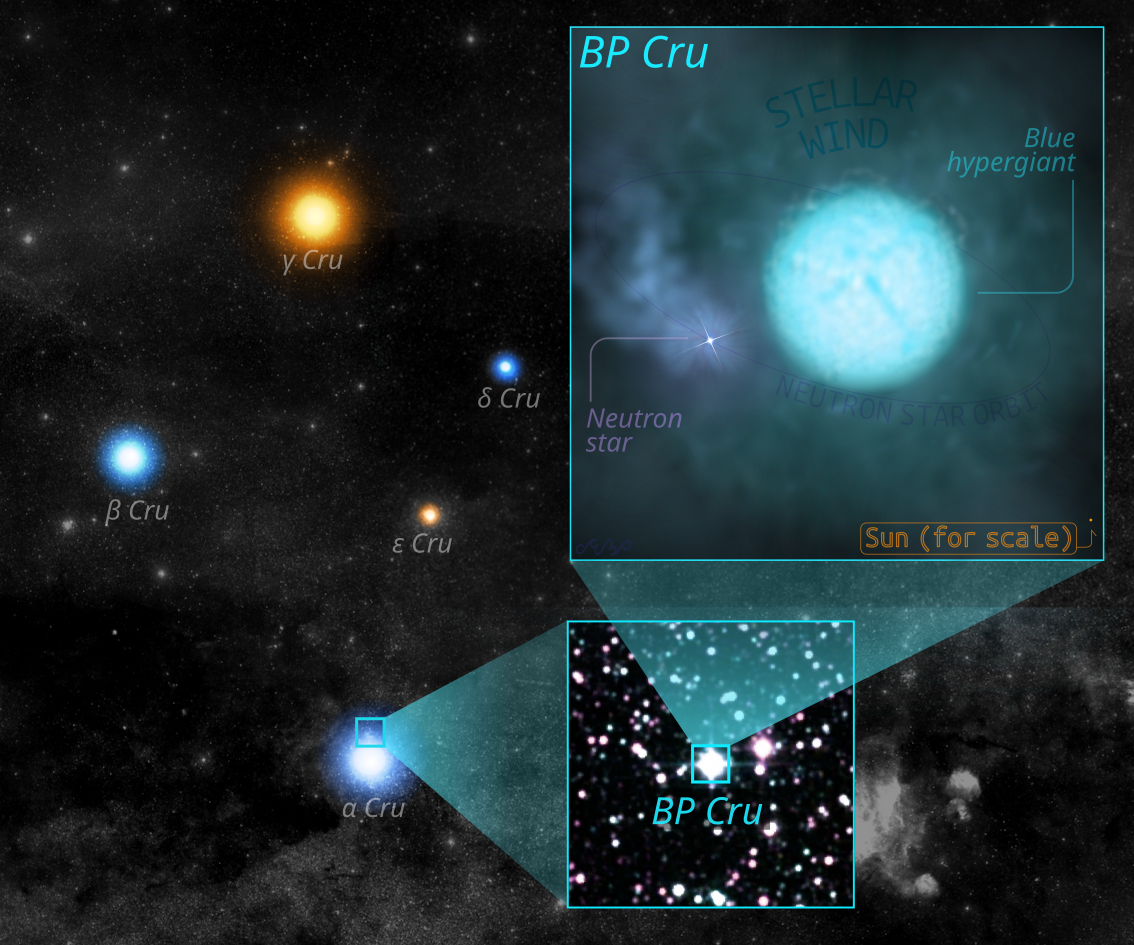
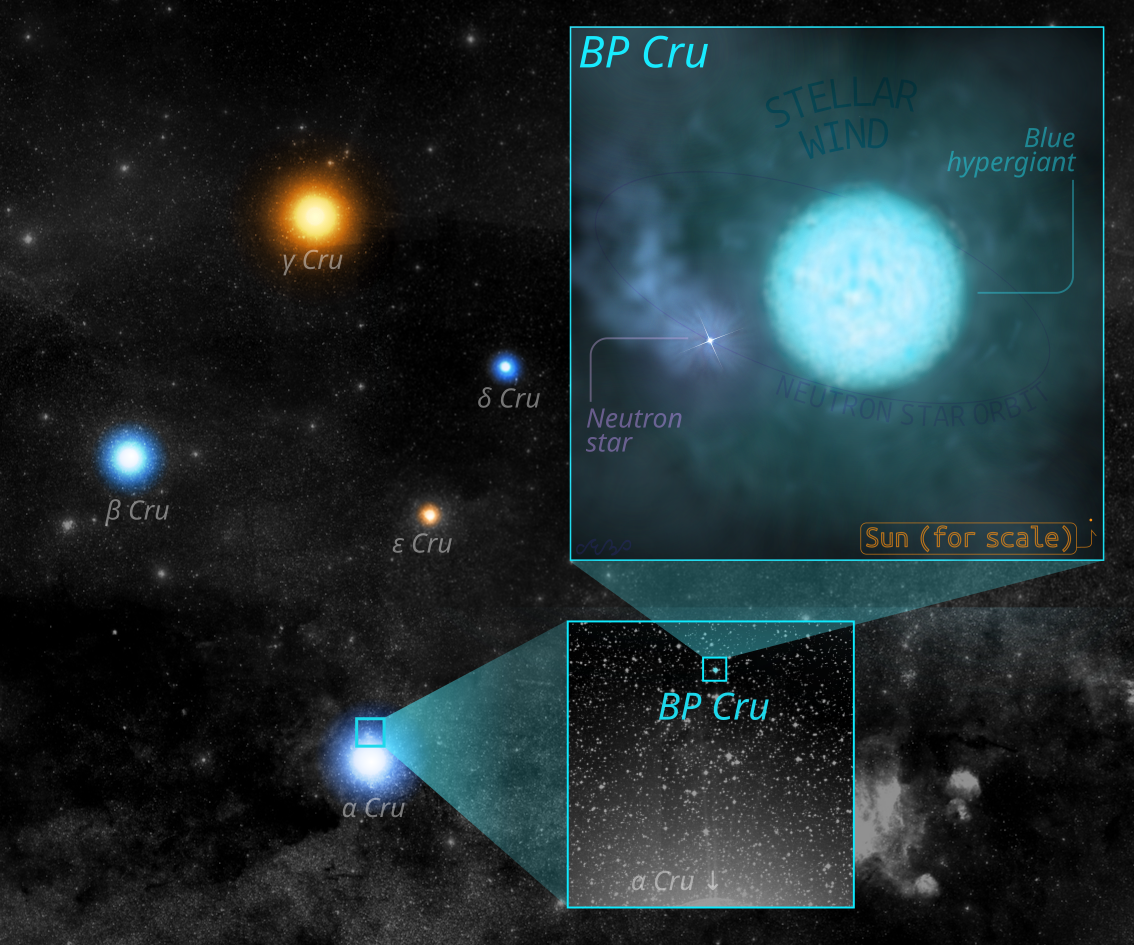
Testing first post

diff --git a/__site/subpages/blog/20260118-bpcru/index.html b/__site/subpages/blog/20260118-bpcru/index.html
@@ -14,7 +14,7 @@
 <link rel="shortcut icon" href="/assets/favicon.svg">
 <link rel="apple-touch-icon-precomposed" sizes="152x152" href="/assets/apple-touch-icon.png">
 
-   <title>BP Cru</title>  
+   <title>BP Cru, intersection of extremes</title>  
 </head>
 <body>
   <header>
@@ -33,6 +33,28 @@
 
 <!-- Content appended here -->
 <div class="franklin-content">
+<h1 id="bp_cru_the_intersection_of_extremes_18102026"><a href="#bp_cru_the_intersection_of_extremes_18102026" class="header-anchor">BP Cru, the intersection of extremes | 18.10.2026</a></h1>
+<p>Tonight, at 5:25:19 UTC of the 19th of January, the <a href="https://science.nasa.gov/mission/hubble/">Hubble Space Telescope &#40;HST&#41;</a> will be staring at the Southern Cross &#40;Crux, or Cruzeiro do Sul em português&#41;. For the first time, a very special star will be observed&#33; Its most famous name is <a href="https://simbad.cds.unistra.fr/simbad/sim-basic?Ident&#61;BP&#43;Cru&amp;submit&#61;SIMBAD&#43;search"><em>BP Cru</em></a>. In our line of sight, BP Cru lies close to <a href="https://en.wikipedia.org/wiki/Acrux">α Cru</a>, the brightest star in the constellation.</p>
+<blockquote>
+<p>The name &quot;BP Cru&quot; corresponds to the star&#39;s designation at the <a href="https://en.wikipedia.org/wiki/General_Catalogue_of_Variable_Stars">General Catalog of Variable Stars</a>.</p>
+</blockquote>
+<p>BP Cru is actually two stars engaged in a very macabre dance. One of them is a cool blue hypergiant, an aged behemoth seventy times larger and forty times more massive than our Sun. The other is a tiny, tiny neutron star – the remnant of an even heavier behemoth that died long ago.   This dead star, whose internal structure defies and haunts our astrophysical understanding, is no larger than 20 km, yet it has a mass two or three times that of the Sun – pause for a moment and contemplate that&#33;   We have here a giant monster dancing a fifty-day-long dance with a zombie. And it is a dance that is anything but boring.</p>
+<blockquote>
+<p>We say a star is alive if it still fuses atoms into other atoms in its core to produce energy, preventing it from collapsing under its own weight. &quot;Dead stars&quot; like neutron stars are not made of normal atoms and sustain themselves through physical processes wilder than science fiction.</p>
+</blockquote>
+<div class="row"><div class="container"><div class="center"><img src="/assets/blog-figures/bpcru.png" alt="" /></div></div>
+<p><em>Artistic impression and collage of BP Cru. Both the location as well as the binary system configuration are shown. The neutron star, represented as the white shiny speckle, orbits around the blue hypergiant. As it moves inside the dense wind of the blue star, it emits copious amounts of X-rays. For scale the sun is represented with an orange dot. The image of Crux is the photometry collected by <a href="https://en.wikipedia.org/wiki/Digitized_Sky_Survey">DSS2</a> and modified in Inkscape. This work was crafter in <a href="https://inkscape.org/">Inkscape</a>. This artistic impression has made use of <a href="https://sky.esa.int/esasky">ESASKY</a>, developed by the ESAC Science Data Centre &#40;ESDC&#41; team and maintained alongside other ESA science mission&#39;s archives at ESA&#39;s European Space Astronomy Centre &#40;ESAC, Madrid, Spain&#41;. This work is licensed under <a href="https://creativecommons.org/licenses/by-nc/4.0">CC BY-NC 4.0</a>.</em></p>
+
+<div style="black: both"></div></div>
+<p>Massive stars live fast and die quickly – at least in astronomical terms, lasting only a few million years. However, their brightness, winds, and violent deaths as supernovae change the course of entire galaxies and forge most of the atoms that make up you and me. Therefore, understanding how these stars live and die is fundamental to understanding where we came from and why the night sky looks the way it does. Most high-mass stars, alive or dead, dance or have danced with another star. Often, such dances between a dead and an alive massive star produce X-rays, producing what we call High-Mass X-ray Binaries.</p>
+<blockquote>
+<p>The term &quot;High Mass X-ray Binary&quot; refers to any system made of a dead massive star, like a black hole or a neutron star, and a massive star orbiting each other and emitting X-rays because of their interaction  – yes, the same radiation used to image our bones&#33;</p>
+</blockquote>
+<p>BP Cru is the only known system where this exact type of behemoth – a cool blue hypergiant – is leading its dead companion in such a dance. The hypergiant is so large and bright that it launches its surface layers into space as a stellar wind. As the neutron star orbits through this wind, it violently pulls the surrounding gas toward itself. The friction of the infalling gas produces copious amounts of X-rays.</p>
+<p>With its uniqueness, BP Cru may be the only observable example of a very brief snapshot in the life of certain high-mass stellar systems. How did such a system come to be? Why don’t we see more systems like it? How long can this system survive? What impacts will it have when it dies? We don’t know yet, but learning more about the past, present, and future of these dancing monsters will reveal exciting things about massive stars, and eventually about the Universe as a whole&#33;</p>
+<p><em>Abraços, MBP</em></p>
+<div class="colbox-blue">PS: Some personal coincidences about this are remarkable&#33; BP is the acronym of my surname, and Cruzeiro do Sul, was the first constellation I identified in the night sky when I was a child&#33; Also, the observations were originally scheduled for 2027, but last week the first of them were rescheduled for tonight&#33; It is a true existential pleasure to be traveling to the place where I grew up &#40;Rio de Janeiro&#41;, gazing at the Southern Cross while the HST collects data for <a href="https://www.stsci.edu/hst-program-info/program/?program&#61;18129">my very first successful first-author observational proposal</a>&#33; Fingers crossed for clear skies in Rio and a smooth observation by HST&#33;</div>
+<h3 id="references"><a href="#references" class="header-anchor">References      </a></h3>
 <div class="page-foot">
     <a href="http://creativecommons.org/licenses/by-sa/4.0/">CC BY-SA 4.0</a> Matheus Bernini Peron. Last modified: January 17, 2026.
     Website built with <a href="https://github.com/tlienart/Franklin.jl">Franklin.jl</a> and the <a href="https://julialang.org">Julia programming language</a>.

diff --git a/__site/subpages/blog/index.html b/__site/subpages/blog/index.html
@@ -35,12 +35,12 @@
 <div class="franklin-content">
 <p>Here you find posts with a semi-regular frequency &#40;lets see how consistent I keep it, wish me luck&#33;&#41; about different things. Usually things related to science, art, hobbies and averything in between.</p>
 <ul>
-<li><p><a href="/subpages/blog/20260118-bpcru">BP Cru, the intersaction of extremes</a></p>
+<li><p><a href="/subpages/blog/20260118-bpcru">BP Cru, the intersection of extremes</a></p>
 </li>
 </ul>
 <p><img src="/assets/contruction-sign-joke.png" alt="construction sign joke"> </p>
 <div class="page-foot">
-    <a href="http://creativecommons.org/licenses/by-sa/4.0/">CC BY-SA 4.0</a> Matheus Bernini Peron. Last modified: January 16, 2026.
+    <a href="http://creativecommons.org/licenses/by-sa/4.0/">CC BY-SA 4.0</a> Matheus Bernini Peron. Last modified: January 17, 2026.
     Website built with <a href="https://github.com/tlienart/Franklin.jl">Franklin.jl</a> and the <a href="https://julialang.org">Julia programming language</a>.
 </div>
 </div><!-- CONTENT ENDS HERE -->

diff --git a/subpages/blog/20260118-bpcru.md b/subpages/blog/20260118-bpcru.md
@@ -1,13 +1,33 @@
 +++
-title = "BP Cru"
+title = "BP Cru, intersection of extremes"
+author = "Matheus Bernini Peron"
+date = "2026-01-18"
+
+# FLATTENED structure - no nested [sections]
+artwork_name = "Crux and BP Cru"
+artwork_artist = "Matheus Bernini Peron"
+artwork_year = "2026"
+artwork_medium = "Digital collage using astronomical reference data"
+artwork_license = "CC BY-NC 4.0"
+artwork_repo = "https://github.com/matheus-bp/matheus-bp.github.io"
+
+credit_original_text = "Original artistic work"
+credit_original_copyright = "© Matheus Bernini Peron"
+credit_original_license_url = "https://creativecommons.org/licenses/by-nc/4.0/"
+
+credit_data_esa = "ESA Sky web portal (European Space Agency)"
+credit_data_dss2 = "Digitized Sky Survey 2, Space Telescope Science Institute"
+credit_data_observations = "Palomar Observatory/UK Schmidt Telescope"
+
+legal_status = "Transformative artistic work for non-commercial educational purposes"
+legal_basis = "Created under fair use/fair dealing principles"
+legal_note = "The astronomical data remains © respective rights holders"
 +++
-<!-- 
-\newcommand{\col}[2]{~~~<span style="color:~~~#1~~~">~~~!#2~~~</span>~~~}
 
-# BP Cru, the intersaction of extremes | 18.10.2026
+# BP Cru, the intersection of extremes | 18.10.2026
 
 
-Tonight, at 5:25:19 UTC, the Hubble Space Telescope (HST) will be staring at the Southern Cross (Crux, or Cruzeiro do Sul em português). For the first time, a very special star will be observed! Its most famous name is BP Cru. In our line of sight, BP Cru lies close to α Cru, the brightest star in the constellation.
+Tonight, at 5:25:19 UTC of the 19th of January, the [Hubble Space Telescope (HST)](https://science.nasa.gov/mission/hubble/) will be staring at the Southern Cross (Crux, or Cruzeiro do Sul em português). For the first time, a very special star will be observed! Its most famous name is [*BP Cru*](https://simbad.cds.unistra.fr/simbad/sim-basic?Ident=BP+Cru&submit=SIMBAD+search). In our line of sight, BP Cru lies close to [α Cru](https://en.wikipedia.org/wiki/Acrux), the brightest star in the constellation.
 
 >The name "BP Cru" corresponds to the star's designation at the [General Catalog of Variable Stars](https://en.wikipedia.org/wiki/General_Catalogue_of_Variable_Stars).
 
@@ -24,8 +44,8 @@ We have here a giant monster dancing a fifty-day-long dance with a zombie. And i
 
 @@
 
-*Artistic impression and collage of BP Cru. Both the location as well as the binary system configuration are shown. The neutron star, represented as the white shiny speckle, orbits around the blue hypergiant. As it moves inside the dense wind of the blue star, it emits copious amounts of X-rays. For scale the sun is represented with an orange dot at the lower left corner.   
-The figure was fully made with Inkscape. The sky pictures are taken from [Esa Sky](https://sky.esa.int/esasky).*
+*Artistic impression and collage of BP Cru. Both the location as well as the binary system configuration are shown. The neutron star, represented as the white shiny speckle, orbits around the blue hypergiant. As it moves inside the dense wind of the blue star, it emits copious amounts of X-rays. For scale the sun is represented with an orange dot. The image of Crux is the photometry collected by [DSS2](https://en.wikipedia.org/wiki/Digitized_Sky_Survey) and modified in Inkscape. This work was crafter in [Inkscape](https://inkscape.org/).
+This artistic impression has made use of [ESASKY](https://sky.esa.int/esasky), developed by the ESAC Science Data Centre (ESDC) team and maintained alongside other ESA science mission's archives at ESA's European Space Astronomy Centre (ESAC, Madrid, Spain). This work is licensed under [CC BY-NC 4.0](https://creativecommons.org/licenses/by-nc/4.0).*
 
 ~~~
 <div style="black: both"></div>
@@ -34,14 +54,19 @@ The figure was fully made with Inkscape. The sky pictures are taken from [Esa Sk
 
 
 
-Most massive stars, alive or dead, dance or have danced with another star. However, BP Cru is the only known system where this exact type of behemoth is leading its dead companion in such a dance. The hypergiant is so large and bright that it launches its surface layers into space as a stellar wind. As the neutron star orbits through this wind, it violently pulls the surrounding gas toward itself. The friction of the infalling gas produces copious amounts of X-rays -- yes, the same radiation used to image our bones! This is why such a system is called a High-Mass X-ray Binary.
+Massive stars live fast and die quickly -- at least in astronomical terms, lasting only a few million years. However, their brightness, winds, and violent deaths as supernovae change the course of entire galaxies and forge most of the atoms that make up you and me. Therefore, understanding how these stars live and die is fundamental to understanding where we came from and why the night sky looks the way it does. Most high-mass stars, alive or dead, dance or have danced with another star. Often, such dances between a dead and an alive massive star produce X-rays, producing what we call High-Mass X-ray Binaries.
 
-Massive stars live fast and die quickly -- at least in astronomical terms, lasting only a few million years. However, their brightness, winds, and violent deaths as supernovae change the course of entire galaxies and, last but not least, forge most of the atoms that make up you and me. Therefore, understanding how these stars live and die is fundamental to understanding where we came from and why the night sky looks the way it does.
+>The term "High Mass X-ray Binary" refers to any system made of a dead massive star, like a black hole or a neutron star, and a massive star orbiting each other and emitting X-rays because of their interaction  -- yes, the same radiation used to image our bones!
 
-With its uniqueness, BP Cru may be the only observable example of a very brief snapshot in the life of certain high-mass stellar systems. How did such a system come to be? Why don’t we see more systems like it? How long can this system survive? What impacts will it have when it dies? We don’t know yet, but learning more about the past, present, and future of these dancing monsters will reveal exciting truths about massive stars!
 
-Another drop from the ocean of the unknown will become a piece of knowledge.
+BP Cru is the only known system where this exact type of behemoth -- a cool blue hypergiant -- is leading its dead companion in such a dance. The hypergiant is so large and bright that it launches its surface layers into space as a stellar wind. As the neutron star orbits through this wind, it violently pulls the surrounding gas toward itself. The friction of the infalling gas produces copious amounts of X-rays.
+
+With its uniqueness, BP Cru may be the only observable example of a very brief snapshot in the life of certain high-mass stellar systems. How did such a system come to be? Why don’t we see more systems like it? How long can this system survive? What impacts will it have when it dies? We don’t know yet, but learning more about the past, present, and future of these dancing monsters will reveal exciting things about massive stars, and eventually about the Universe as a whole!
+
+*Abraços, MBP*
 
 @@colbox-blue
-PS: Some personal coincidences about this are remarkable! BP is the acronym of my surname, and Cruzeiro do Sul, was the first constellation I identified in the night sky when I was a child! Also, the observations were originally scheduled for 2027, but last week the first of them were rescheduled for tonight! It is a true existential pleasure to be traveling to the place where I grew up (Rio de Janeiro), gazing at the Southern Cross while the HST collects data for my first successful observational proposal!
-@@ -->
+PS: Some personal coincidences about this are remarkable! BP is the acronym of my surname, and Cruzeiro do Sul, was the first constellation I identified in the night sky when I was a child! Also, the observations were originally scheduled for 2027, but last week the first of them were rescheduled for tonight! It is a true existential pleasure to be traveling to the place where I grew up (Rio de Janeiro), gazing at the Southern Cross while the HST collects data for [my very first successful first-author observational proposal](https://www.stsci.edu/hst-program-info/program/?program=18129)! Fingers crossed for clear skies in Rio and a smooth observation by HST!
+@@
+
+### References      

diff --git a/subpages/blog.md b/subpages/blog.md
@@ -5,7 +5,7 @@ title = "Blog"
 Here you find posts with a semi-regular frequency (lets see how consistent I keep it, wish me luck!) about different things. Usually things related to science, art, hobbies and averything in between.
 
 
-* [BP Cru, the intersaction of extremes](/subpages/blog/20260118-bpcru)
+* [BP Cru, the intersection of extremes](/subpages/blog/20260118-bpcru)
 
 
 ![][construction sign joke]
